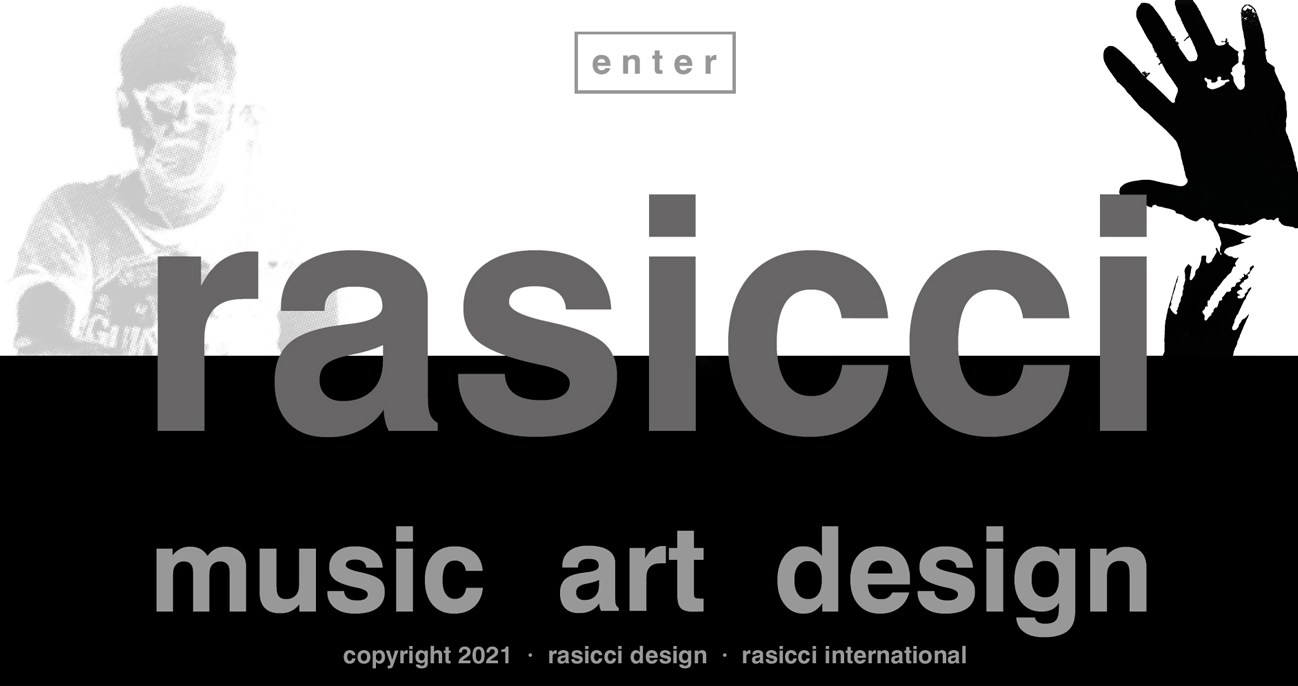
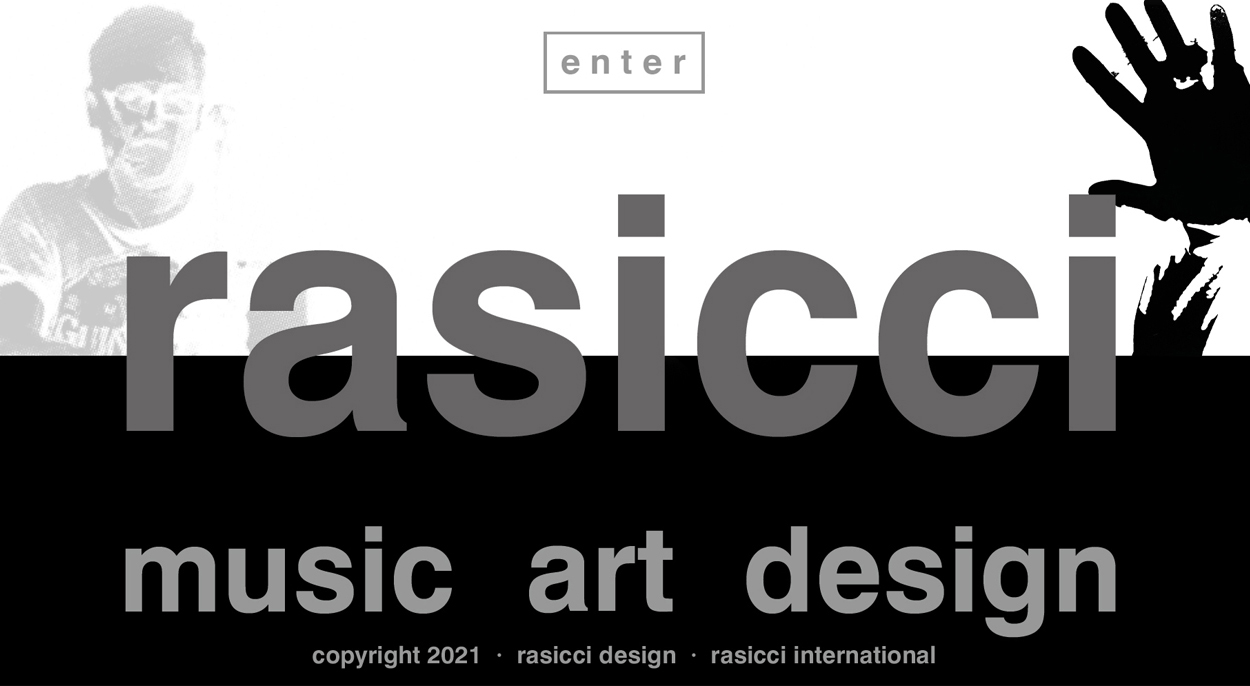
Add files via upload

diff --git a/index.html b/index.html
@@ -6,6 +6,6 @@
 </head>
 
 <body>
-<a href="main.html"><img src="R_Pg00_rev2.jpg" width="1298" height="686" alt=""></a><img src="R_Pg00b.jpg" width="592" height="592" alt=""/><a href="https://www.facebook.com/trasicci/"><img src="R_Pg00c.jpg" width="217" height="302" alt=""></a><a href="https://www.instagram.com/timrasicci/"><img src="R_Pg00d.jpg" width="214" height="302" alt=""></a><a href="https://www.linkedin.com/public-profile/in/timothyrasicci"><img src="R_Pg00e.jpg" width="212" height="302" alt=""></a><a href="https://soundcloud.com/tim-rasicci"><img src="R_Pg00f.jpg" width="217" height="302" alt=""></a><a href="https://twitter.com/trasicci?lang=en"><img src="R_Pg00g.jpg" width="215" height="302" alt=""></a><a href="https://www.youtube.com/channel/UCpiugNr8tRdbo3J57n51dVg"><img src="R_Pg00h.jpg" width="228" height="302" alt=""></a>
+<img src="R_Pg00_rev2.jpg" width="1250" height="686" alt=""><img src="R_Pg00c.jpg" width="159" height="153" alt=""><img src="R_Pg00d.jpg" width="153" height="150" alt=""><img src="R_Pg00e.jpg" width="161" height="160" alt=""><img src="R_Pg00f.jpg" width="151" height="151" alt=""><img src="R_Pg00g.jpg" width="161" height="153" alt=""><img src="R_Pg00h.jpg" width="152" height="148" alt=""><img src="R_Pg00b.jpg" width="592" height="592" alt="">
 </body>
 </html>
